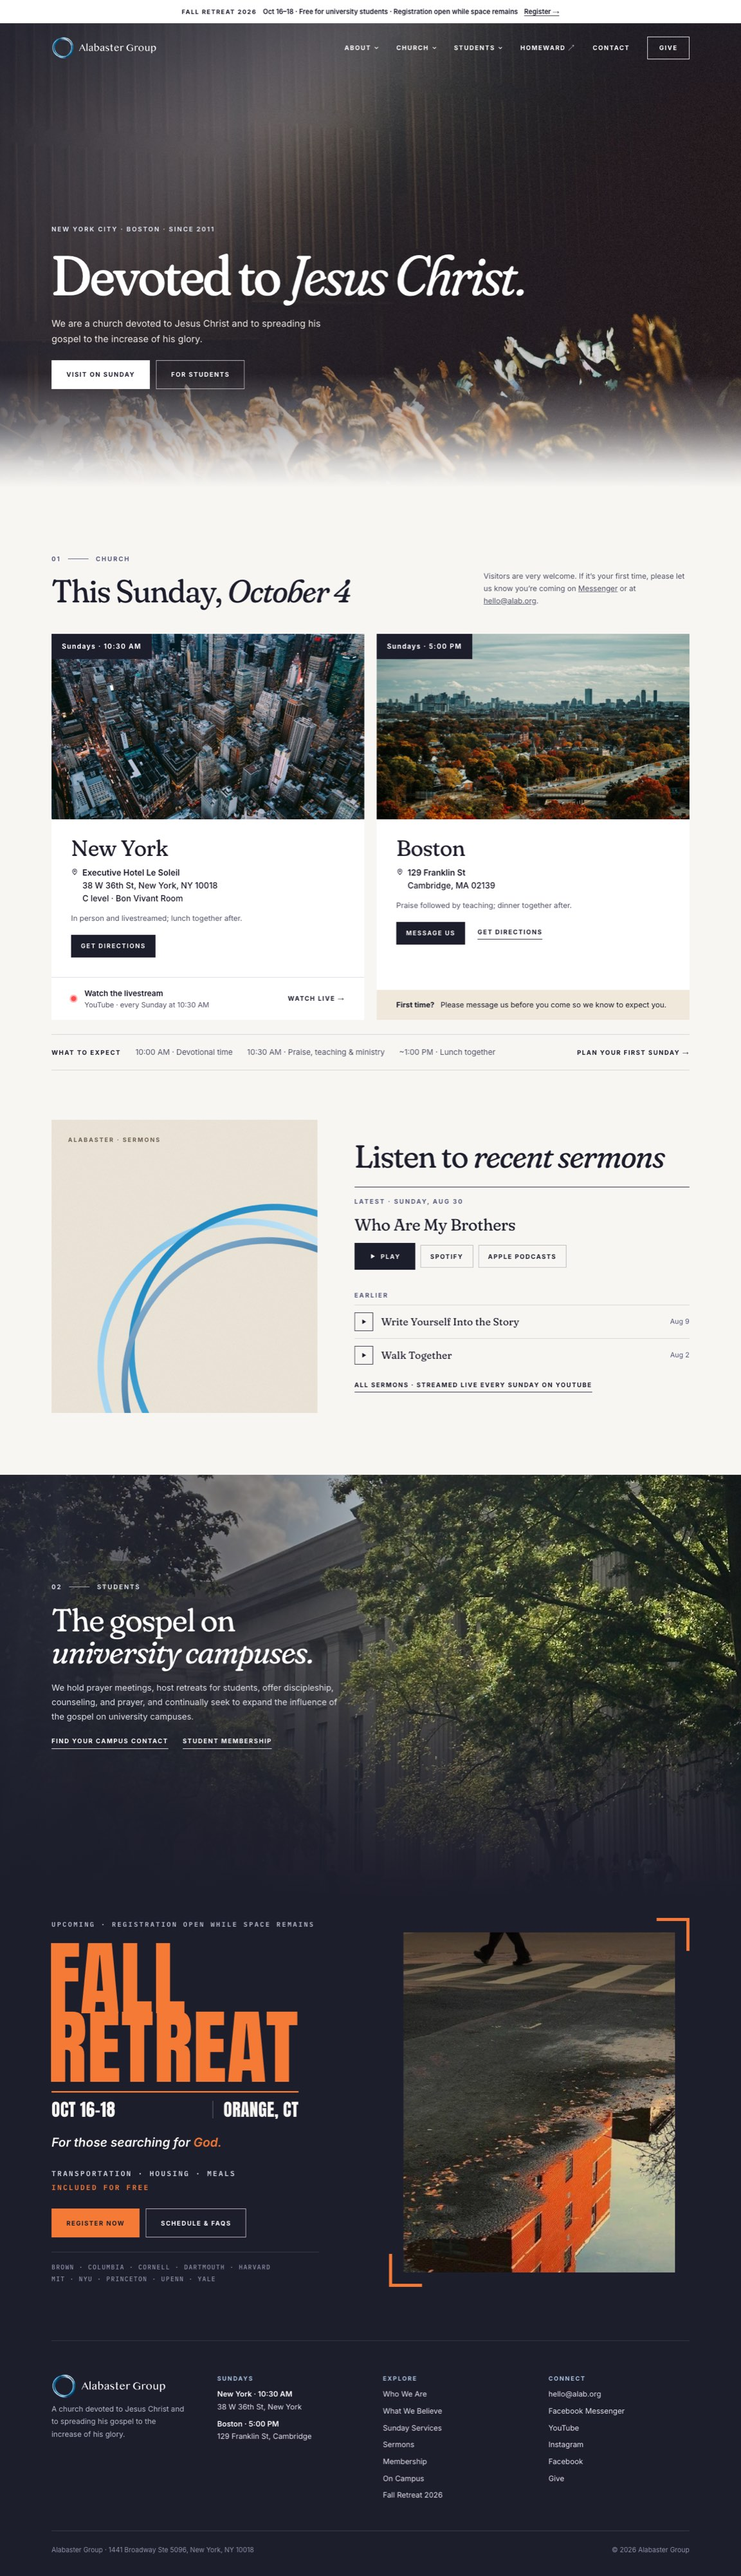
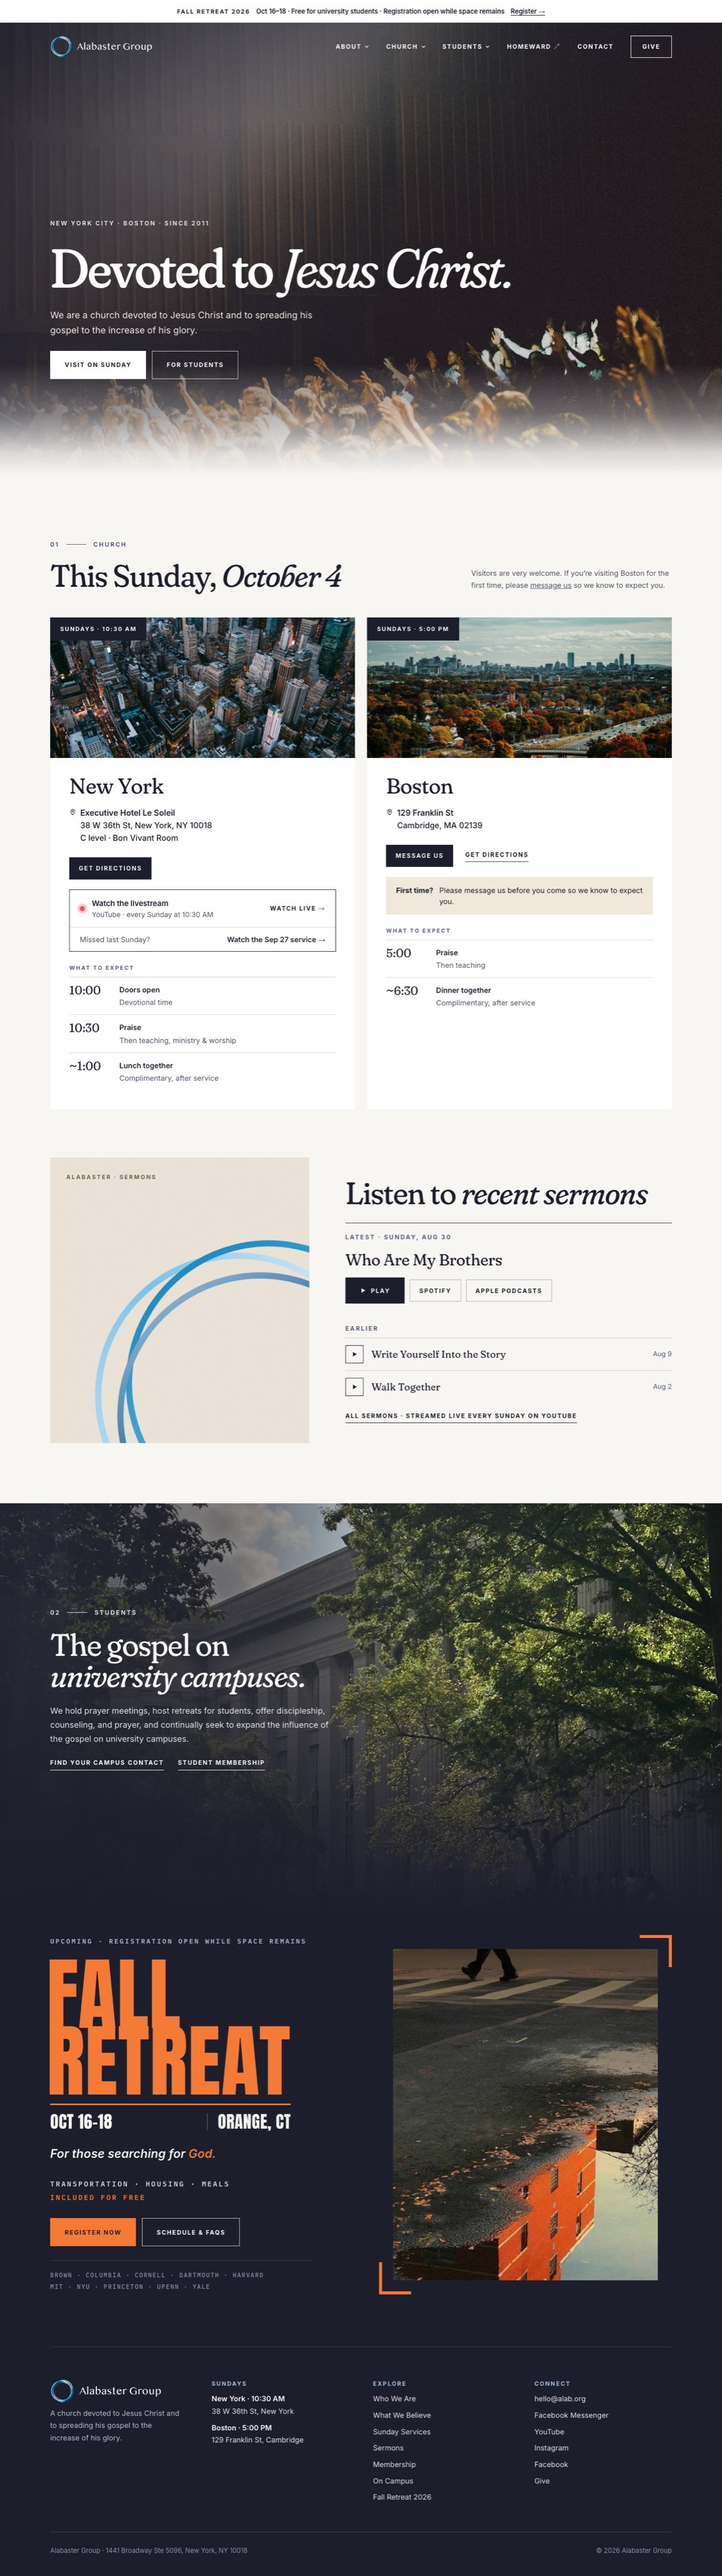
Build service cards from option A; add last week's livestream
- New York / Boston cards: in-card 'What to expect' timeline, one primary
  button each (NY: Get directions, Boston: Message us)
- New York livestream box: 'Watch the livestream' plus 'Missed last
  Sunday? Watch the Sep 27 service', driven by site.json livestream links
  (Sunday streams are unlisted, so they can't be auto-detected)
- Redundant 'Watch livestream' link and homepage expect line removed
- Sunday Services: 'Your first Sunday' three-step section replaces the
  dark timeline; message-first note only for Boston
- Test plan screenshots refreshed in docs/test-plan/

diff --git a/src/pages/sunday-services.html b/src/pages/sunday-services.html
@@ -16,7 +16,7 @@ description: We host Sunday services weekly in New York City (10:30 AM) and Bost
 <section class="wrap section">
 <div class="head-row">
 <h2>This Sunday, <em data-sunday="long">October 4</em></h2>
-<p>If it is your first time, it would help us if you let us know that you are coming in advance. Please message us on <a href="{{site.messenger}}">Facebook Messenger</a> or at <a href="mailto:{{site.email}}">{{site.email}}</a>.</p>
+<p>Visitors are very welcome. If you’re visiting Boston for the first time, please <a href="{{site.messenger}}">message us</a> so we know to expect you.</p>
 </div>
 <div class="card-grid">
 {{> card-nyc}}
@@ -24,33 +24,19 @@ description: We host Sunday services weekly in New York City (10:30 AM) and Bost
 </div>
 </section>
 
-<section class="dark section">
-<div class="wrap">
-<div class="split">
-<div class="stack gap-m">
-<span class="eyebrow">New York City · Sundays at 10:30 AM</span>
-<h2>What to <em>expect</em></h2>
-<p class="small muted">We occasionally change locations, so this week’s address is always on the home page, along with the link to join via YouTube live stream.</p>
+<section class="wrap" style="padding-bottom: 120px;">
+<div class="head-row">
+<div class="stack gap-m"><span class="eyebrow">Your first Sunday</span><h2>Three things <em>to know</em></h2></div>
+<p>We occasionally change locations, so this week’s address is always on this page and the home page.</p>
 </div>
-<div class="stack">
-<div class="episode" style="border-color: rgba(247,246,243,0.2); gap: 24px; padding: 22px 0; align-items: baseline;"><span class="time-num">10:00</span><span><strong>Doors open</strong><br><span class="muted">Devotional time.</span></span></div>
-<div class="episode" style="border-color: rgba(247,246,243,0.2); gap: 24px; padding: 22px 0; align-items: baseline;"><span class="time-num">10:30</span><span><strong>Praise</strong><br><span class="muted">Followed by teaching, ministry and worship.</span></span></div>
-<div class="episode" style="border-color: rgba(247,246,243,0.2); gap: 24px; padding: 22px 0; align-items: baseline;"><span class="time-num">~1:00</span><span><strong>Lunch together</strong><br><span class="muted">Service usually concludes around 1:00 PM. After service, we typically have complimentary lunch together.</span></span></div>
+<div class="first-steps">
+<div class="first-step"><span class="first-step__num">1</span><h3 class="h4">Arrive</h3><p>In New York, doors open at 10:00 AM for devotional time before the 10:30 service. In Boston, we begin at 5:00 PM.</p></div>
+<div class="first-step"><span class="first-step__num">2</span><h3 class="h4">Worship with us</h3><p>Praise is followed by teaching, ministry and worship. New York usually concludes around 1:00 PM; Boston around 6:30 PM.</p></div>
+<div class="first-step"><span class="first-step__num">3</span><h3 class="h4">Stay for a meal</h3><p>After service we share a complimentary meal: lunch in New York, dinner in Boston.</p></div>
 </div>
-</div>
-<div class="split" style="margin-top: 96px;">
-<div class="stack gap-m">
-<span class="eyebrow">Boston · Sundays at 5:00 PM</span>
-<h2>In <em>Cambridge</em></h2>
-</div>
-<div class="stack">
-<div class="episode" style="border-color: rgba(247,246,243,0.2); gap: 24px; padding: 22px 0; align-items: baseline;"><span class="time-num">5:00</span><span><strong>Praise</strong><br><span class="muted">Followed by teaching, usually concluding around 6:30 PM.</span></span></div>
-<div class="episode" style="border-color: rgba(247,246,243,0.2); gap: 24px; padding: 22px 0; align-items: baseline;"><span class="time-num">~6:30</span><span><strong>Dinner together</strong><br><span class="muted">After service, we have complimentary dinner together.</span></span></div>
-</div>
-</div>
-</div>
+<div class="first-note"><strong>Visiting Boston?</strong><span>Please <a href="{{site.messenger}}">message us</a> or email <a href="mailto:{{site.email}}">{{site.email}}</a> before you come so we know to expect you.</span></div>
 </section>
 
-<section class="after-sermons" style="padding-top: 120px;">
+<section class="after-sermons" style="padding-top: 0;">
 {{> sermons-split}}
 </section>

diff --git a/public/css/site.css b/public/css/site.css
@@ -545,3 +545,26 @@ body, .prose { font-size: var(--fs-body); }
 .note-first { margin-top: auto; display: flex; gap: 12px; padding: 18px 38px; background: var(--cream); font-size: var(--fs-small); line-height: 1.5; }
 .note-first strong { white-space: nowrap; }
 @media (max-width: 900px) { .note-first { padding: 16px 22px; flex-direction: column; gap: 2px; } }
+
+/* ---------- Option A service cards ---------- */
+.card--a .card__media { height: 280px; }
+.card--a .card__body { gap: 20px; flex-grow: 1; }
+.card--a .tag { font-size: 11.5px; letter-spacing: 0.16em; text-transform: uppercase; }
+.live-box { border: 1.5px solid var(--ink); }
+.live-box__now { display: flex; align-items: center; gap: 14px; padding: 16px 20px; text-decoration: none; color: var(--ink); }
+.live-box__last { display: flex; justify-content: space-between; gap: 12px; flex-wrap: wrap; padding: 12px 20px; border-top: 1px solid var(--line); font-size: var(--fs-small); color: var(--muted); text-decoration: none; }
+.live-box__last span:last-child { color: var(--ink); font-weight: 600; }
+.card--a .note-first { margin-top: 0; padding: 16px 20px; }
+.steps { display: flex; flex-direction: column; margin-top: 4px; }
+.steps .eyebrow { margin-bottom: 8px; font-size: 11px; }
+.step { display: grid; grid-template-columns: 84px 1fr; gap: 16px; padding: 13px 0; border-top: 1px solid var(--line); }
+.step__time { font-family: var(--serif); font-variation-settings: 'SOFT' 100; font-size: 24px; line-height: 1.1; }
+.step > span:last-child { display: flex; flex-direction: column; gap: 2px; font-size: var(--fs-small); color: var(--muted); }
+.step strong { color: var(--ink); font-weight: 600; }
+@media (max-width: 900px) { .card--a .card__media { height: 210px; } .live-box__now, .live-box__last { padding-inline: 16px; } .step { grid-template-columns: 70px 1fr; } }
+/* Sunday Services: first-visit steps */
+.first-steps { display: grid; grid-template-columns: repeat(auto-fit, minmax(min(300px, 100%), 1fr)); gap: 20px; }
+.first-step { background: var(--white); padding: 32px 30px 34px; display: flex; flex-direction: column; gap: 12px; }
+.first-step__num { width: 44px; height: 44px; border: 1.5px solid var(--ink); display: flex; align-items: center; justify-content: center; font-family: var(--serif); font-size: 22px; margin-bottom: 6px; }
+.first-step p { font-size: var(--fs-small); line-height: 1.65; color: var(--muted); }
+.first-note { margin-top: 20px; display: flex; flex-wrap: wrap; gap: 6px 14px; padding: 20px 26px; background: var(--cream); font-size: var(--fs-small); line-height: 1.6; }

diff --git a/src/partials/card-nyc.html b/src/partials/card-nyc.html
@@ -1,14 +1,17 @@
-<article class="card">
+<article class="card card--a">
 <div class="card__media"><img src="/images/home/new_york_background.webp" alt="Midtown Manhattan at dusk" loading="lazy"><span class="tag">Sundays · {{site.nyc.time}}</span></div>
 <div class="card__body">
 <h3>New York</h3>
 <a class="address" href="{{site.nyc.map}}">{{> pin}}<span><strong>{{site.nyc.venue}}</strong><br>{{site.nyc.street}}, {{site.nyc.city_line}}<br>C level · Bon Vivant Room</span></a>
-<span class="small muted">In person and livestreamed; lunch together after.</span>
 <div class="card__links"><a class="btn btn--ink btn--sm" href="{{site.nyc.map}}">Get directions</a></div>
-</div>
-<a class="live" href="{{site.youtube_live}}">
+<div class="live-box">
+<a class="live-box__now" href="{{site.youtube_live}}" data-live-url="{{site.livestream.upcoming.url}}" data-live-date="{{site.livestream.upcoming.date}}">
 <span class="live__dot" aria-hidden="true"></span>
 <span class="live__text"><strong>Watch the livestream</strong><span>YouTube · every Sunday at {{site.nyc.time}}</span></span>
 <span class="live__cta">Watch live →</span>
 </a>
+<a class="live-box__last" href="{{site.livestream.last.url}}"><span>Missed last Sunday?</span><span>Watch the {{site.livestream.last.label}} service →</span></a>
+</div>
+{{> expect-ny}}
+</div>
 </article>

diff --git a/src/pages/index.html b/src/pages/index.html
@@ -20,16 +20,13 @@ description: A church devoted to Jesus Christ and to spreading his gospel. Sunda
 <span class="eyebrow chapter"><span>01</span><span class="rule"></span><span>Church</span></span>
 <h2>This Sunday, <em data-sunday="long">October 4</em></h2>
 </div>
-<p>Visitors are very welcome. If it’s your first time, please let us know you’re coming on <a href="{{site.messenger}}">Messenger</a> or at <a href="mailto:{{site.email}}">{{site.email}}</a>.</p>
+<p>Visitors are very welcome. If you’re visiting Boston for the first time, please <a href="{{site.messenger}}">message us</a> so we know to expect you.</p>
 </div>
 <div class="card-grid">
 {{> card-nyc}}
 {{> card-boston}}
 </div>
-<a class="expect" href="/sunday-services" style="margin-top: 28px;">
-<span class="expect__items"><strong>What to expect</strong><span>10:00 AM · Devotional time</span><span>10:30 AM · Praise, teaching &amp; ministry</span><span>~1:00 PM · Lunch together</span></span>
-<span class="link-u" style="border: 0; padding: 0;">Plan your first Sunday →</span>
-</a>
+
 </section>
 
 <section class="after-sermons" style="padding-top: 96px;">

diff --git a/src/partials/card-boston.html b/src/partials/card-boston.html
@@ -1,10 +1,10 @@
-<article class="card">
+<article class="card card--a">
 <div class="card__media"><img src="/images/who-we-are/unsplash-image-W6BUMYEhTG8.webp" alt="Boston skyline above autumn trees" loading="lazy"><span class="tag">Sundays · {{site.boston.time}}</span></div>
 <div class="card__body">
 <h3>Boston</h3>
 <a class="address" href="{{site.boston.map}}">{{> pin}}<span><strong>{{site.boston.street}}</strong><br>{{site.boston.city_line}}</span></a>
-<span class="small muted">Praise followed by teaching; dinner together after.</span>
 <div class="card__links"><a class="btn btn--ink btn--sm" href="{{site.messenger}}">Message us</a><a class="link-u" href="{{site.boston.map}}">Get directions</a></div>
-</div>
 <div class="note-first"><strong>First time?</strong><span>Please message us before you come so we know to expect you.</span></div>
+{{> expect-boston}}
+</div>
 </article>

diff --git a/public/js/site.js b/public/js/site.js
@@ -24,6 +24,15 @@
     el.textContent = next.toLocaleDateString('en-US', fmt);
   });
 
+  // Livestream: use this Sunday's link once it is filled in (site.json),
+  // otherwise keep the channel's /live link.
+  document.querySelectorAll('[data-live-url]').forEach(function (el) {
+    var url = el.getAttribute('data-live-url');
+    var date = el.getAttribute('data-live-date');
+    var nextIso = next.getFullYear() + '-' + String(next.getMonth() + 1).padStart(2, '0') + '-' + String(next.getDate()).padStart(2, '0');
+    if (url && date === nextIso) el.setAttribute('href', url);
+  });
+
   // Retreat registration deadline countdown.
   document.querySelectorAll('[data-deadline]').forEach(function (el) {
     var deadline = new Date(el.getAttribute('data-deadline'));

diff --git a/src/partials/expect-ny.html b/src/partials/expect-ny.html
@@ -1,0 +1,5 @@
+<div class="steps"><span class="eyebrow">What to expect</span>
+<div class="step"><span class="step__time">10:00</span><span><strong>Doors open</strong><span>Devotional time</span></span></div>
+<div class="step"><span class="step__time">10:30</span><span><strong>Praise</strong><span>Then teaching, ministry &amp; worship</span></span></div>
+<div class="step"><span class="step__time">~1:00</span><span><strong>Lunch together</strong><span>Complimentary, after service</span></span></div>
+</div>

diff --git a/src/partials/expect-boston.html b/src/partials/expect-boston.html
@@ -1,0 +1,4 @@
+<div class="steps"><span class="eyebrow">What to expect</span>
+<div class="step"><span class="step__time">5:00</span><span><strong>Praise</strong><span>Then teaching</span></span></div>
+<div class="step"><span class="step__time">~6:30</span><span><strong>Dinner together</strong><span>Complimentary, after service</span></span></div>
+</div>

diff --git a/docs/test-plan/README.md b/docs/test-plan/README.md
@@ -1,6 +1,6 @@
 # Test plan
 
-Generated 2026-10-03 22:47 by `scripts/test_plan.py` from a fresh build.
+Generated 2026-10-03 23:00 by `scripts/test_plan.py` from a fresh build.
 
 ## Automated checks
 
